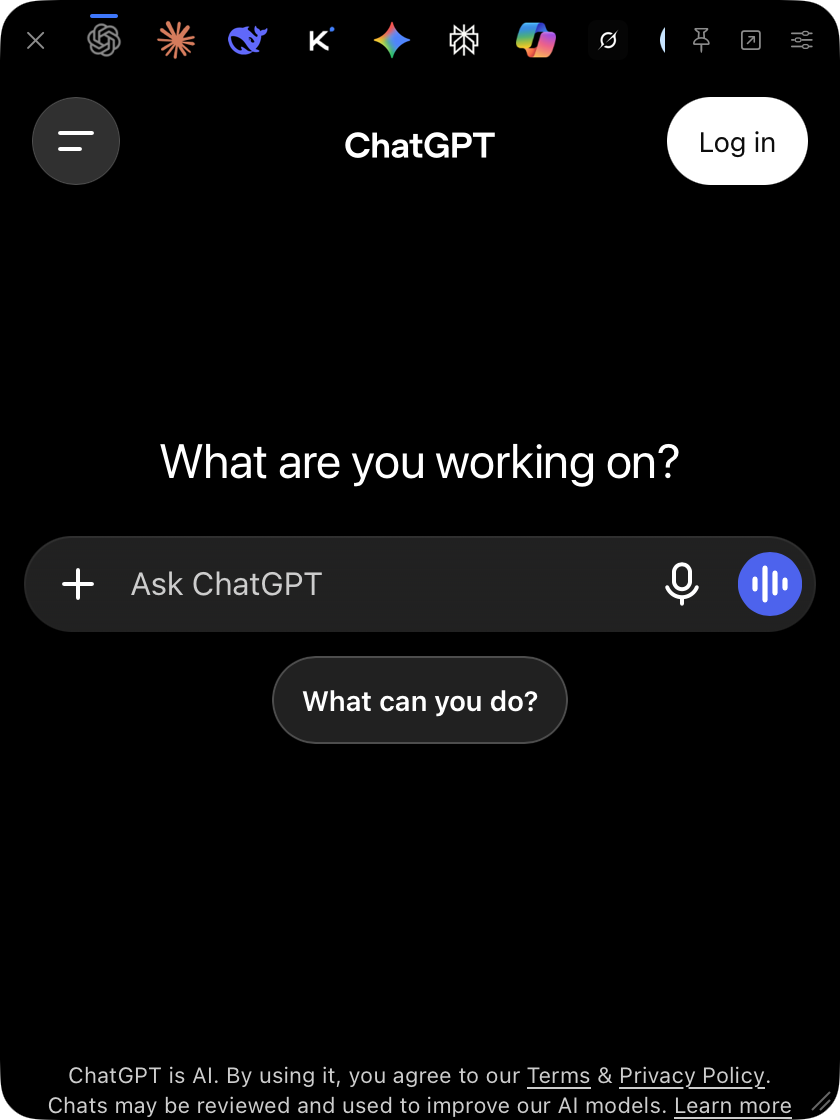
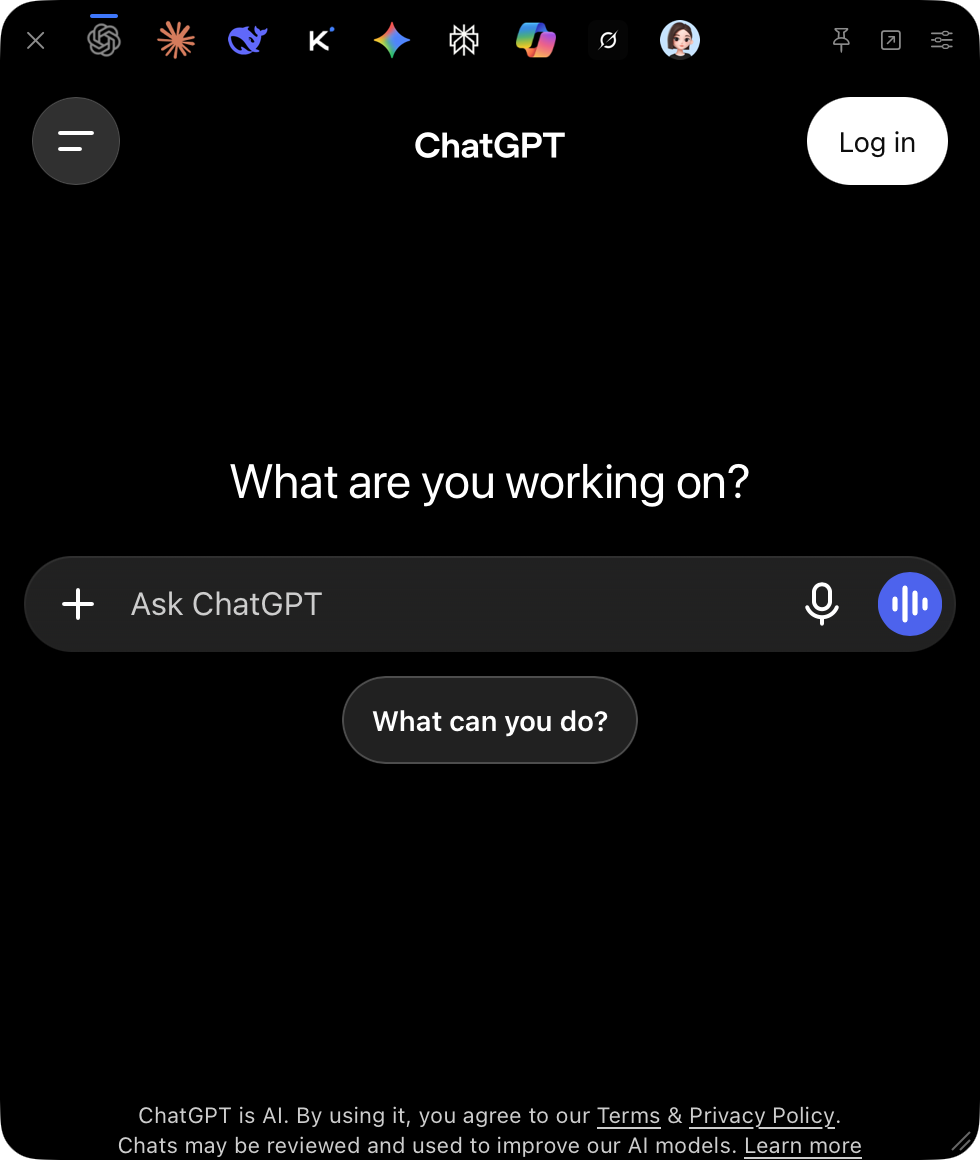
Document and prepare FloatChat 0.3.3

diff --git a/README.md b/README.md
@@ -6,7 +6,7 @@
   <p>macOS 14+ · Apple silicon and Intel</p>
   <p>FloatChat packs the chat websites you already use into a small, native macOS window. It uses Swift, AppKit, and the WebKit browser engine built into macOS. Pages are released when they’re idle, and there’s no separate browser runtime to ship.</p>
   <p>Sign in directly on each website. WebKit keeps FloatChat’s sessions locally, separately from your default browser. FloatChat needs no account or API key of its own. Keep it alongside your other Mac apps, or open the current page in your default browser anytime.</p>
-  <p><img src="docs/images/panel.png" width="350" alt="Floating FloatChat window with provider icons along the top and ChatGPT open"></p>
+  <p><img src="docs/images/panel.png" width="350" alt="FloatChat’s rounded panel with all nine provider icons and the ChatGPT composer"></p>
   <p><img src="Resources/Providers/chatgpt.png" width="24" height="24" alt="ChatGPT"> <img src="Resources/Providers/claude.png" width="24" height="24" alt="Claude"> <img src="Resources/Providers/deepseek.png" width="24" height="24" alt="DeepSeek"> <img src="Resources/Providers/kimi.png" width="24" height="24" alt="Kimi"> <img src="Resources/Providers/gemini.png" width="24" height="24" alt="Gemini"> <img src="Resources/Providers/perplexity.png" width="24" height="24" alt="Perplexity"> <img src="Resources/Providers/copilot.png" width="24" height="24" alt="Copilot"> <img src="Resources/Providers/grok.png" width="24" height="24" alt="Grok"> <img src="Resources/Providers/doubao.png" width="24" height="24" alt="Doubao"></p>
   <p>Nine built-in providers, including Doubao (豆包), plus any HTTPS chat website you add.</p>
 </div>
@@ -45,7 +45,7 @@ The community build uses ad-hoc signing and is distributed without Apple notariz
 
 Settings can stay open beside the floating window. In **Chats**, drag to reorder, hide sites with their switches, click the pencil to change a custom site’s name or address, or rename a pin. Click a custom site’s icon to choose a local image, restore the site’s icon, or refresh it. Right-click a tab to check its hostname or change its zoom. In **General → Floating Window**, choose the last or default position, hide the window on outside clicks, or adjust **Translucency** with a slider. Text and controls stay opaque. macOS 26 and later use Liquid Glass.
 
-<p align="center"><img src="docs/images/general.png" width="460" alt="General settings with the Translucency slider, window position, and click-away switch"></p>
+<p align="center"><img src="docs/images/general.png" width="460" alt="General settings with the Translucency slider and separate retention timers for instant and pinned chats"></p>
 
 ## Page retention and sign-ins
 

diff --git a/README.zh-CN.md b/README.zh-CN.md
@@ -6,7 +6,7 @@
   <p>macOS 14 或更高版本 · 支持 Apple 芯片和 Intel Mac</p>
   <p>FloatChat 把你常用的聊天网站放进一个小巧的 macOS 原生悬浮窗口。它使用 Swift、AppKit 和 macOS 自带的 WebKit，无需打包独立的浏览器运行环境。闲置页面会按设置释放。</p>
   <p>直接在各个网站上登录。WebKit 在本机保存 FloatChat 的登录状态，与默认浏览器分开。FloatChat 无需单独注册账号或提供 API 密钥。你可以在使用其他 Mac 应用时保留悬浮窗口，也可随时在默认浏览器中打开当前页面。</p>
-  <p><img src="docs/images/panel.png" width="350" alt="FloatChat 悬浮窗口，顶部显示网站图标，当前打开 ChatGPT"></p>
+  <p><img src="docs/images/panel.png" width="350" alt="FloatChat 圆角悬浮窗口，顶部显示九个平台的图标，当前打开 ChatGPT"></p>
   <p><img src="Resources/Providers/chatgpt.png" width="24" height="24" alt="ChatGPT"> <img src="Resources/Providers/claude.png" width="24" height="24" alt="Claude"> <img src="Resources/Providers/deepseek.png" width="24" height="24" alt="DeepSeek"> <img src="Resources/Providers/kimi.png" width="24" height="24" alt="Kimi"> <img src="Resources/Providers/gemini.png" width="24" height="24" alt="Gemini"> <img src="Resources/Providers/perplexity.png" width="24" height="24" alt="Perplexity"> <img src="Resources/Providers/copilot.png" width="24" height="24" alt="Copilot"> <img src="Resources/Providers/grok.png" width="24" height="24" alt="Grok"> <img src="Resources/Providers/doubao.png" width="24" height="24" alt="Doubao"></p>
   <p>内置 9 个平台（含豆包），也可添加你常用的聊天网站。</p>
 </div>
@@ -45,7 +45,7 @@
 
 设置可以与悬浮窗口同时打开。在**聊天**中可以拖动排序、隐藏网站、点击铅笔修改自定义网站的名称和地址，或为固定会话重命名。点击自定义网站的图标即可选取本地图片、恢复网站图标或刷新图标。右键点击标签可查看当前主机名或调整网页缩放。打开**通用 → 悬浮窗口**可选择打开位置、点击外部时隐藏，或用滑块调整背景透明度。文字与控件保持清晰。macOS 26 及以上使用液态玻璃效果。
 
-<p align="center"><img src="docs/images/general.png" width="460" alt="通用设置中的透明度滑块、窗口位置和点击外部隐藏设置"></p>
+<p align="center"><img src="docs/images/general.png" width="460" alt="通用设置中的透明度滑块，以及即时聊天和固定会话各自的保留时间"></p>
 
 ## 页面保留与登录
 

diff --git a/CHANGELOG.md b/CHANGELOG.md
@@ -1,37 +1,13 @@
 # FloatChat version history
 
+## 0.3.3
+
+- Keep all eligible instant chats loaded for their inactivity period. Pins have a separate timer and reopen their saved conversation after expiry.
+- Adjust translucency with a slider. The rounded panel keeps text and controls opaque through conversation changes, split panes, drawers, and inset composer backdrops.
+- Switch chats with less layout work. FloatChat reuses tab buttons and applies writing-suggestion preferences when an editable field receives focus.
+- Set a local image for a custom website or restore its favicon. Both READMEs now show the current panel and Settings.
+
 ## 0.3.2
-
-### Build 12
-
-- Inset composer backdrops, such as Claude’s, blend into the page while rounded input cards stay opaque.
-
-### Build 11
-
-- Chat switches update existing tab buttons. Writing suggestions are configured on focus, without observing the message stream.
-- Route and theme callbacks share a single pending appearance update. Overlay drawers use a translucent tint without page-level blur.
-
-### Build 10
-
-- Side drawers and split panes keep their translucency through opening, closing, and resize transitions. Overlay drawers blur only the content behind them.
-- Tab switches avoid rebuilding the tab strip twice.
-
-### Build 9
-
-- The full-width composer backdrop follows the translucency setting while the composer and text stay opaque. Background updates are scoped to the visible page’s layout.
-
-### Build 8
-
-- Instant chats and pinned conversations have separate retention timers with no count limit. Instant chats start fresh after expiry. Pins reopen the saved conversation.
-- Background translucency follows client-side conversation changes while keeping text opaque.
-
-### Build 7
-
-- One continuous rounded panel surface. The translucency slider changes the background while preserving text and control opacity.
-- Custom websites can use a local image as their icon, with an option to restore the website’s favicon.
-- Refreshed screenshots and a short explanation of local WebKit sign-ins in both READMEs.
-
-### Build 6
 
 - Doubao (豆包) joins the built-in chat platforms.
 - Page zoom has keyboard shortcuts and a per-chat slider in Settings. Each pinned conversation can have its own zoom.

diff --git a/docs/RELEASE-AUDIT.md b/docs/RELEASE-AUDIT.md
@@ -1,6 +1,12 @@
 # FloatChat release checks
 
-## 0.3.2
+## 0.3.3
+
+- All five local regression suites passed on macOS. The universal 0.3.3 DMG and ZIP were built from the same app bundle with arm64 and x86_64 slices.
+- The README images were captured from a signed-out preview with transparent corners. The General screenshot shows separate instant and pinned retention settings.
+
+The checks below record the local builds that went into 0.3.3.
+
 
 ### Build 12 (local)
 
@@ -23,7 +29,7 @@
 - The provider test retains more than three parked pages and checks independent instant and pin deadlines, immediate release, and migration from the old shared duration.
 - The panel test replaces a WebKit canvas in place, checks that translucency returns while text opacity remains at one, and verifies that a pin restores its saved conversation after navigating away.
 
-### Build 6 (published)
+## 0.3.2 (published as build 6)
 
 - All five local self-tests passed. The panel regression covers independent Settings and chat windows, whole-web-view opacity, offline status recovery, keyboard delivery after switching, draft retention, and eviction. The provider test covers separate pin and instant zoom levels, Doubao registration, and rejection of authentication fragments.
 - The isolated macOS app was used to inspect the translucent web page and adjust a per-chat zoom slider. The full set of signed-in provider microphone, camera, passkey, and upload flows remains outside this run.
